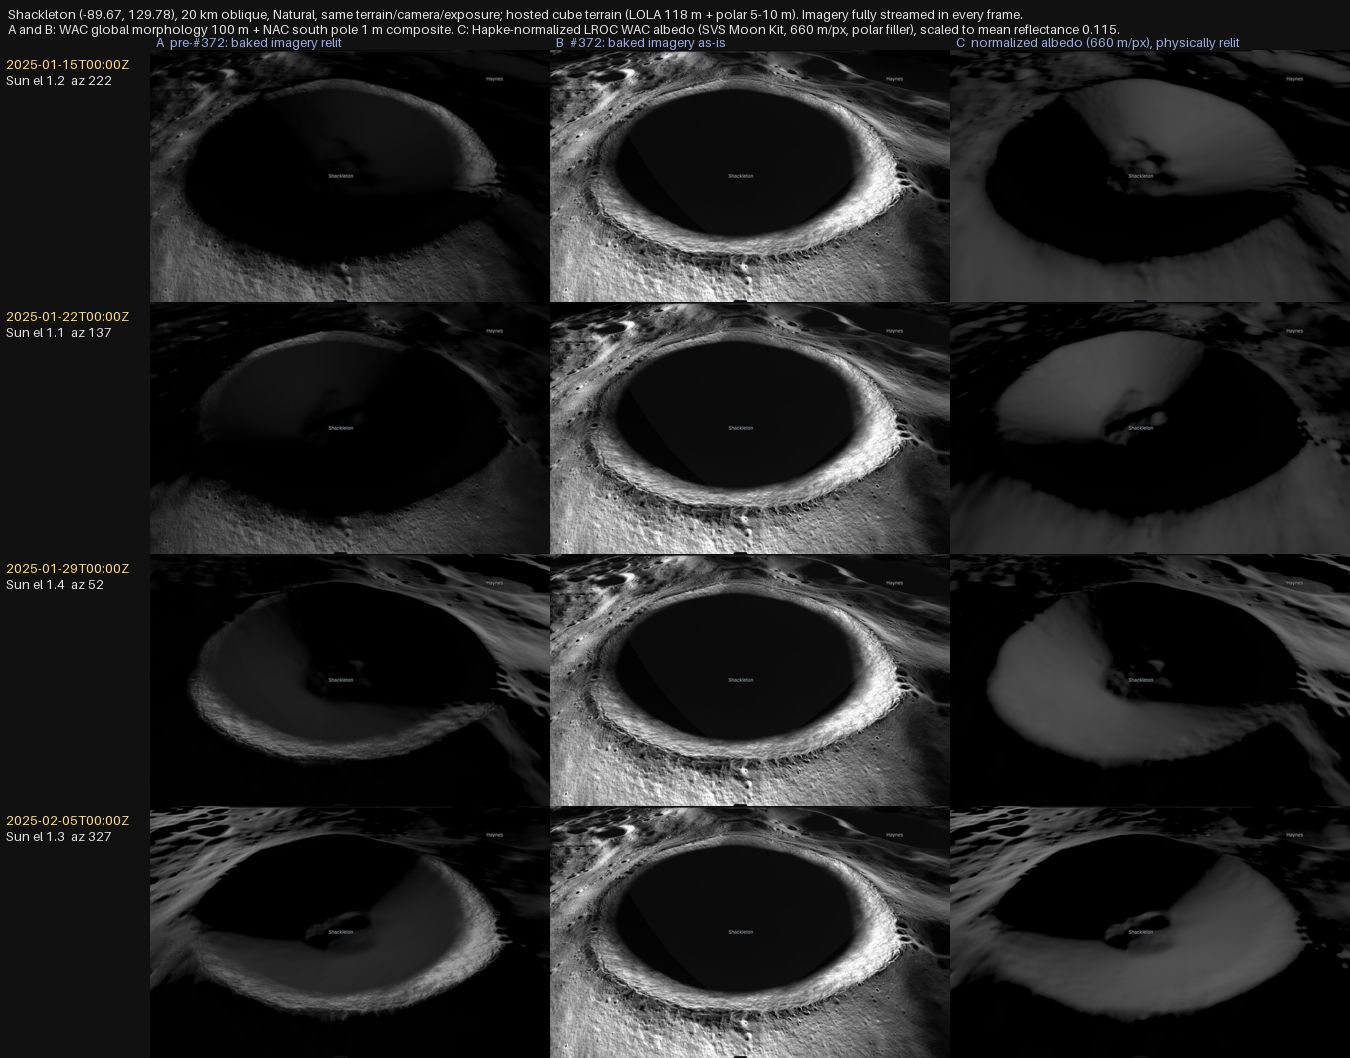
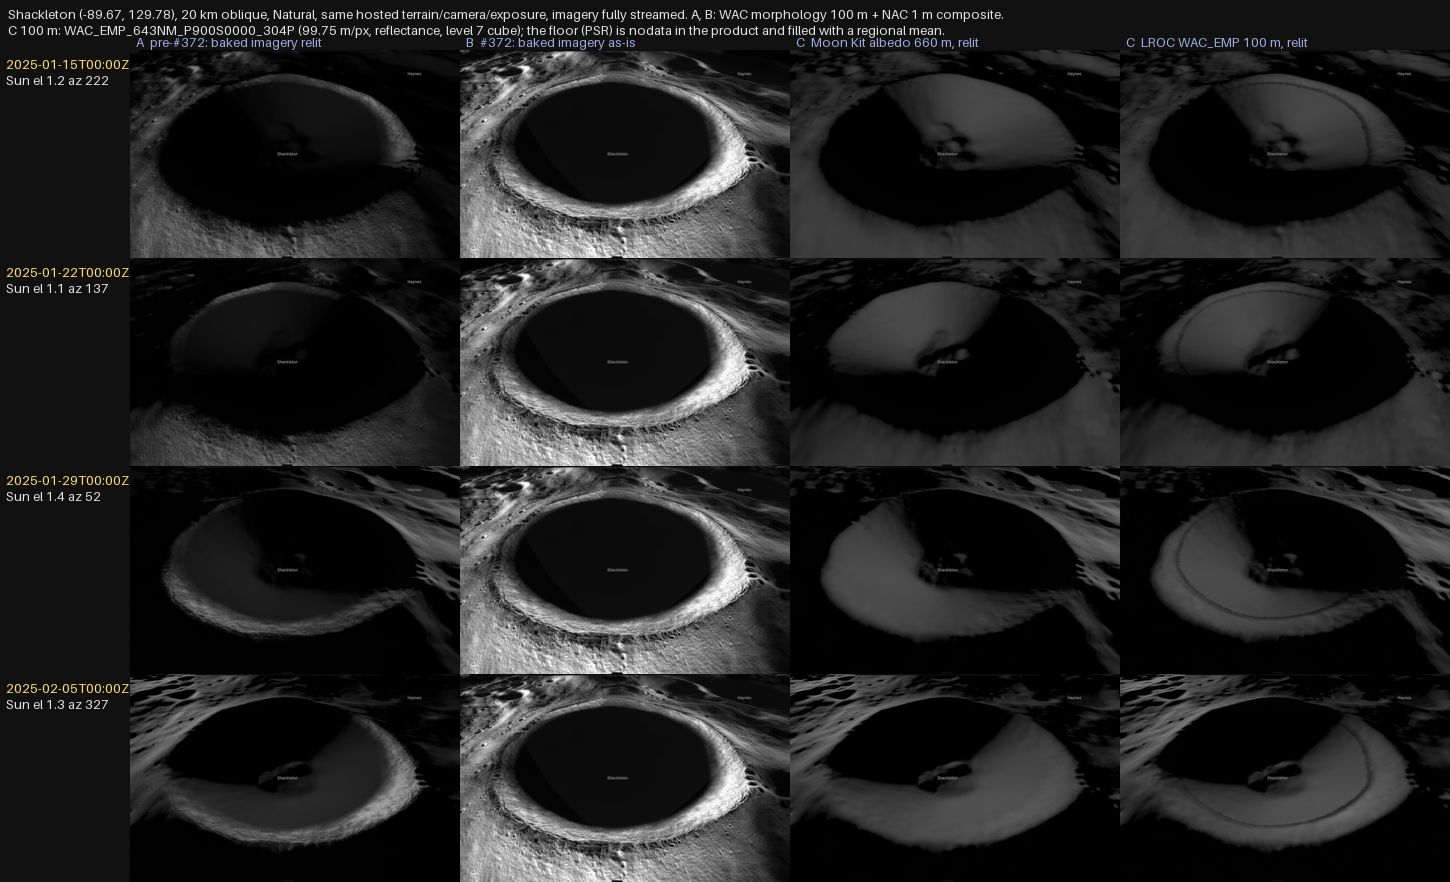
Verify the physical Moon default against the real 100 m WAC_EMP normalized reflectance
South polar WAC_EMP_643NM tile built as a cube layer and compared on the
Shackleton four-epoch matrix; document coverage (PSR nodata), residual slope
shading, and that equatorial tiles were located but not built.

Claude-Session: https://claude.ai/code/session_012apE3t244Zz9qLnHi7EiVa

diff --git a/docs/surface-illumination.md b/docs/surface-illumination.md
@@ -183,7 +183,7 @@ where the primary source is thin.
 
 | Product (used by) | Evidence | Declared |
 | --- | --- | --- |
-| LROC WAC global **morphology** mosaic, 100 m, v3 June 2013 (LRO, MoonFall, base of the WAC+NAC composite) | USGS Astropedia: "To even out the incidence angle variations (generally angles between 55-75 degrees), this morphology mosaic (at 643 nm) is comprised of data collected over three periods", i.e. built for topographic shading; the 2015 LPSC abstract (Wagner et al.) lists it as the "WAC Morphology Basemap". A separate photometrically normalized WAC reflectance product exists; it is **not** what the composite uses. | `baked` |
+| LROC WAC global **morphology** mosaic, 100 m, v3 June 2013 (LRO, MoonFall, base of the WAC+NAC composite) | USGS Astropedia: "To even out the incidence angle variations (generally angles between 55-75 degrees), this morphology mosaic (at 643 nm) is comprised of data collected over three periods", i.e. built for topographic shading; the 2015 LPSC abstract (Wagner et al.) lists it as the "WAC Morphology Basemap". A separate photometrically normalized WAC reflectance product (`WAC_EMP_643NM`, 304 px/deg = 99.75 m/px) exists; it is **not** what the composite uses. | `baked` |
 | LROC NAC south pole **controlled average** mosaic, 1 m (Nov 2025; NAC half of the composite) | The polar NAC mosaics layer images by sub-solar geometry and were hand-reordered "to result in uniform lighting" (LPSC 2015 abstract, product README); the CM_AVG product averages per-sub-solar-longitude mosaics; permanently shadowed floors are black (build README) and nodata `0` is transparent so the WAC shows through. No photometric normalization to albedo. | `baked` |
 | WAC+NAC cube composite `cube-imagery-composite-3f34a19541af7710` (`terrain.imagery[]`, id `wac-nac`) | Both inputs above, composited offline into one opaque JPEG pyramid (`imagery.json` `source.base` / `source.detail`); one layer cannot be half baked. | `baked` |
 | Viking MDIM 2.1 (Mars base, `viking`) | USGS Astropedia: the B/W mosaic "is processed to emphasize local topographic features"; the colour product is blended over it. | `baked` |
@@ -193,7 +193,8 @@ where the primary source is thin.
 No photometrically normalized product is in a production catalog yet, so no
 real scene exercises "reflectance base, baked overlay" except by forcing a
 declaration. The comparison below tests that option on the Moon with the
-Hapke-normalized LROC WAC albedo already in the repo as the globe texture.
+real 100 m `WAC_EMP_643NM` product (south polar tile) and, for contrast, the
+660 m Moon Kit albedo that derives from the same normalization.
 
 ### Relation to `temporal.illumination` (#214)
 
@@ -236,24 +237,38 @@ mean difference 0.00, 0 % of pixels differ), **B** is #372 (baked as-is), **C** 
 physically relit normalized reflectance layer. Scripts, numbers and Sun geometry:
 [`real-scenes.json`](validation/surface-illumination/real-scenes/real-scenes.json).
 
-**C on the Moon** is the NASA SVS CGI Moon Kit colour map (the repo's globe
-texture, `textures/moon-16k.jpg`): derived from the Hapke-normalized LROC WAC
-mosaic, with LOLA albedo filling the poles. Drawn here as luminance, scaled to the
-LROC global mean reflectance 0.115, as a cube layer declared `reflectance`. It is a
-stand-in: **660 m/px, blurry polar filler**, not the 100 m `WAC_EMP_643NM`
-normalized mosaic, whose host (`pds.lroc.im-ldi.com`) was not reachable from the
-build environment. It tests the principle, not the final resolution.
+**C on the Moon** is a cube layer declared `reflectance`, in two versions:
+
+- **C 100 m: the real product.** LROC WAC empirically photometrically normalized
+  643 nm reflectance, `WAC_EMP_643NM_P900S0000_304P` (PDS `LRO-L-LROC-5-RDR-V1.0`,
+  `DATA/MDR/WAC_EMP`): float32 reflectance normalized to i=30°, e=0°, g=30°,
+  polar stereographic, 99.75 m/px, lat -90..-60. Built as a level-7 cube pyramid
+  (83 m/px at the pole) with the product's own values, no recalibration.
+  Equatorward of -60° (outside the product tile) it blends to the Moon Kit layer
+  below, gain-matched in the -62..-70° ring; that region is not in the Shackleton
+  frames. **The product has no data on permanently shadowed floors** (WAC never saw
+  them lit): about 2 % of the area inside -60° is nodata, 30 % within 3° of the pole, and
+  Shackleton's floor is nodata out to about 9 km radius. That nodata is filled
+  with a smooth regional mean: a filler, not data.
+- **C 660 m: the stand-in** used earlier, the NASA SVS CGI Moon Kit colour map
+  (`textures/moon-16k.jpg`, derived from the same normalized WAC mosaic, LOLA
+  albedo at the poles), as luminance scaled to the LROC global mean reflectance 0.115.
+
+Both are physically relit. The 100 m product's reflectance (0.006-0.66, mean
+0.136) is used as the albedo directly; a Lambertian albedo equivalent to a
+reflectance normalized at i=30° would be 1/cos 30° = 1.155 times larger. That is a
+uniform exposure factor, not a shape change, and it is not applied.
 
 ![Shackleton at four epochs: A relit, B baked, C normalized and relit](validation/surface-illumination/real-scenes/moon-shackleton-abc-time.jpg)
 
 **What changes as the Sun moves** (mean luma of the frame, four epochs, Sun
 elevation 1.1-1.4°, azimuth 222°, 137°, 52°, 327°):
 
-| | A relit | B baked | C normalized, relit |
-| --- | --- | --- | --- |
-| Shackleton, 4 epochs | 15.6-23.7 | **71.9-72.2** | 22.6-27.5 |
-| Equator, Sun 20° E / 86° / 20° W | 28 / 51 / 31 | **49.1 / 49.1 / 49.1** | 35 / 63 / 39 |
-| Jezero, Sun 50° / 80° / 21° | 70 / 79 / 43 | **98.9 / 98.9 / 98.9** | no product |
+| | A relit | B baked | C relit (660 m) | C relit (100 m) |
+| --- | --- | --- | --- | --- |
+| Shackleton, 4 epochs | 15.8-23.1 | **72.0-72.3** | 22.1-27.4 | 21.6-26.7 |
+| Equator, Sun 20° E / 86° / 20° W | 28 / 51 / 31 | **49.1 / 49.1 / 49.1** | 35 / 63 / 39 | not built |
+| Jezero, Sun 50° / 80° / 21° | 70 / 79 / 43 | **98.9 / 98.9 / 98.9** | no product | no product |
 
 - **B does not change with the Sun at all.** Rim lighting, crater-wall
   shading and the dark floor are the acquisition Sun's (WAC at 55-75° incidence,
@@ -266,8 +281,17 @@ elevation 1.1-1.4°, azimuth 222°, 137°, 52°, 327°):
   wall lights and the shaded side flips with the azimuth, from the 5-10 m polar
   DEM; at a near-overhead equatorial Sun it is correctly flat (no relief signal at
   noon). It loses the imagery detail: terrain detail is the DEM's (5-10 m polar,
-  118 m elsewhere) and imagery detail is the texture's, and C has only 660 m of
-  the latter. Visible crater interiors are still sunlit when their normals face the
+  118 m elsewhere) and imagery detail is the texture's.
+- **The real 100 m product barely changes C at Shackleton.** Mean luma differs from the
+  660 m stand-in by about 1 of 255 per frame (0.9-1.0 across the four epochs) and the
+  lit-slope pattern is the same: at 1-1.4° Sun elevation the picture is the
+  DEM's shading times an almost uniform albedo. What 100 m adds is real albedo
+  structure on the rim and flanks, and **its defects**: a thin dark ring on the
+  flank (reflectance about 0.12 against 0.18 either side) and a dip at the edge of
+  the nodata floor, both visible in the 100 m column. They are residual slope
+  shading in the product (the empirical normalization cannot undo steep, nearly
+  unlit slopes), so the "normalized" polar tile is not shading-free at crater
+  walls. The 1 m NAC detail in A and B has no counterpart in C. Visible crater interiors are still sunlit when their normals face the
   Sun regardless of rim occlusion: that is #205, not faked here.
 - **Frozen in the sources:** the black Shackleton floor and rim shading in B
   (NAC black in permanently shadowed floors; WAC high-incidence shading).
@@ -340,12 +364,18 @@ that is a catalog decision, not a mode:
    quantities from photographic brightness; nothing here darkens or brightens a
    final image to imitate either.
 
-**Open and unverified.** Item 2 for the Moon rests on a 660 m stand-in. Before
-changing the LRO/MoonFall default, build the `WAC_EMP_643NM` 100 m normalized mosaic
-as a cube layer and repeat the Shackleton comparison; the LRO/MoonFall catalogs
-therefore still declare the WAC+NAC composite `baked` and show it by default. NAC
-(1 m) has no normalized counterpart: at the south pole its footprint covers the whole
-scene, so a baked NAC layer there is the scene.
+**Verified with the real 100 m product, at the south pole only.** The Moon
+default (item 2) works with `WAC_EMP_643NM`: it follows the simulated Sun, and the
+result is within 1 luma of the 660 m stand-in. It does not supply Shackleton's
+interior (nodata, filled) and carries residual slope shading at crater walls, so
+the polar illumination-study scene shows the DEM's shading over a near-uniform
+albedo, with the baked NAC one toggle away. Equatorial 100 m tiles (eight
+`WAC_EMP_643NM_E300…` tiles, about 500 MB each, plus the north polar tile) exist on
+the same host and were located but not built or compared. The LRO/MoonFall catalogs
+still declare the WAC+NAC composite `baked` and show it by default; switching that
+default is the owner's decision. NAC (1 m) has no normalized counterpart: at the
+south pole its footprint covers the whole scene, so a baked NAC layer there is the
+scene.
 
 ## Normals
 
